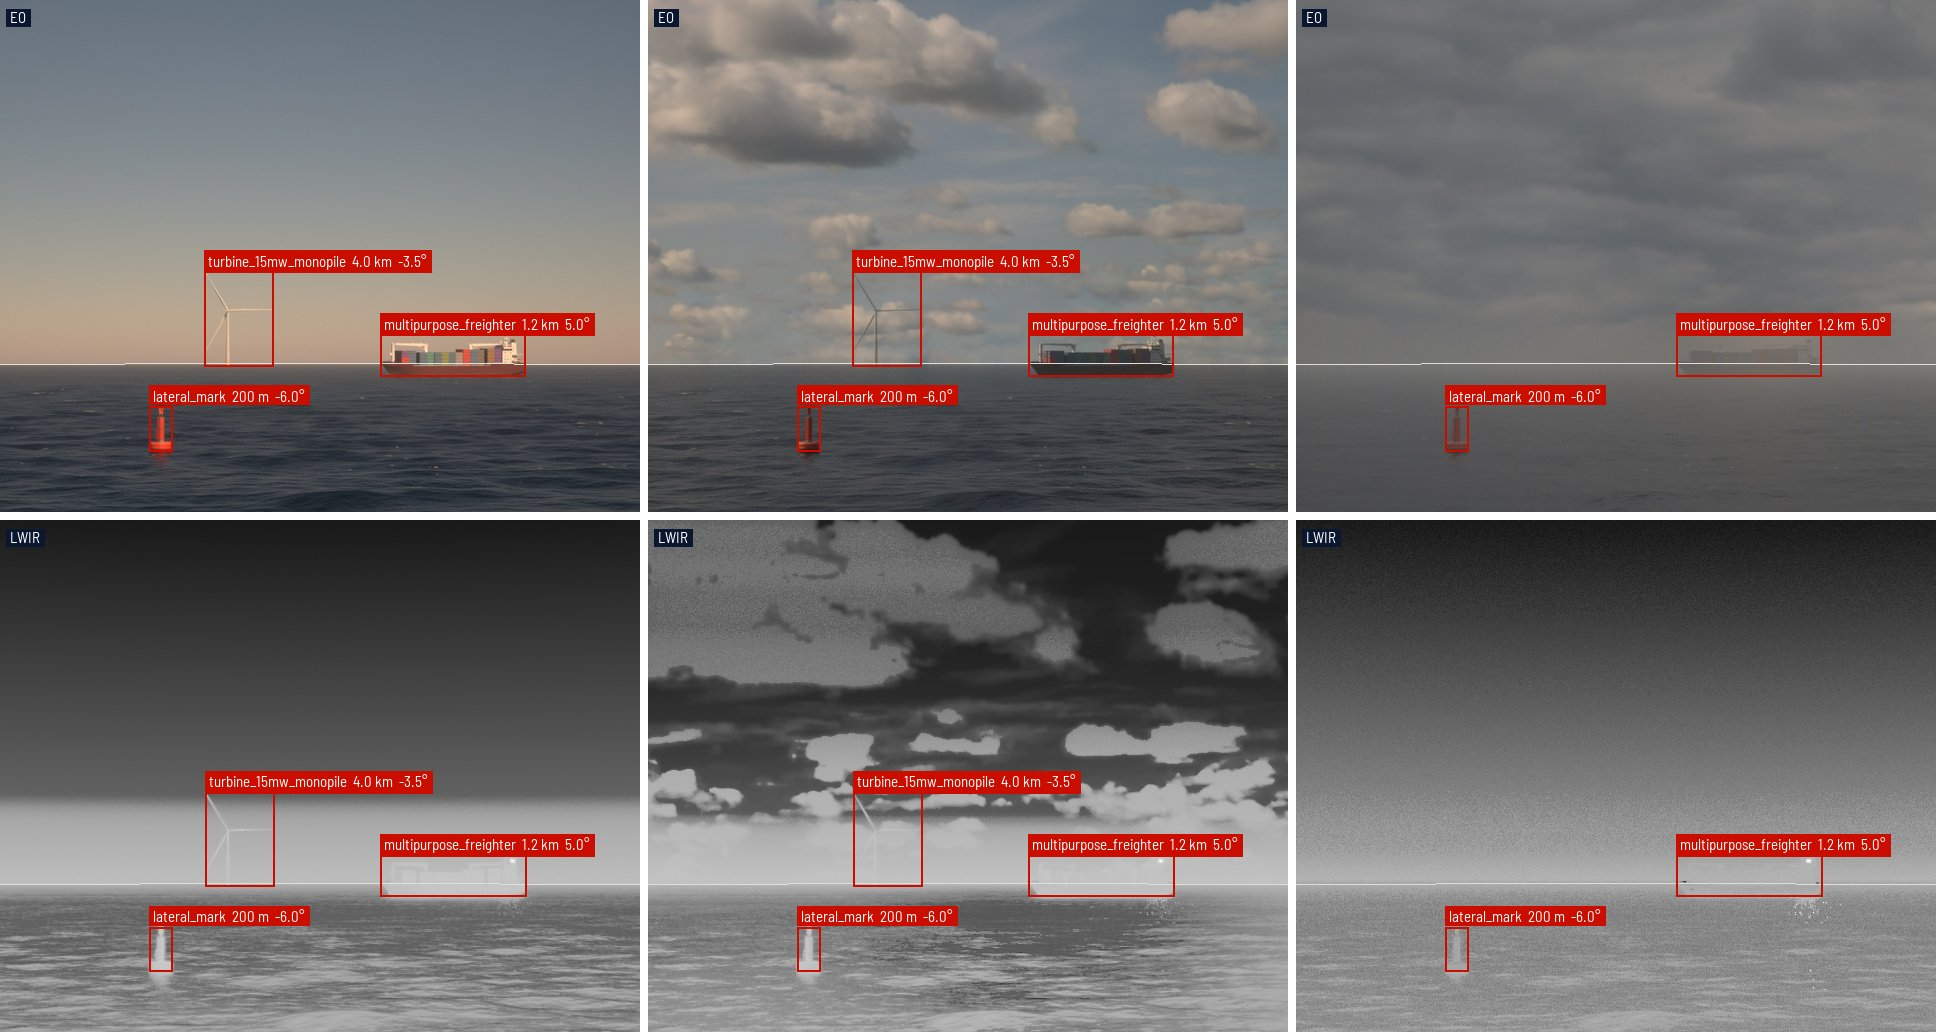
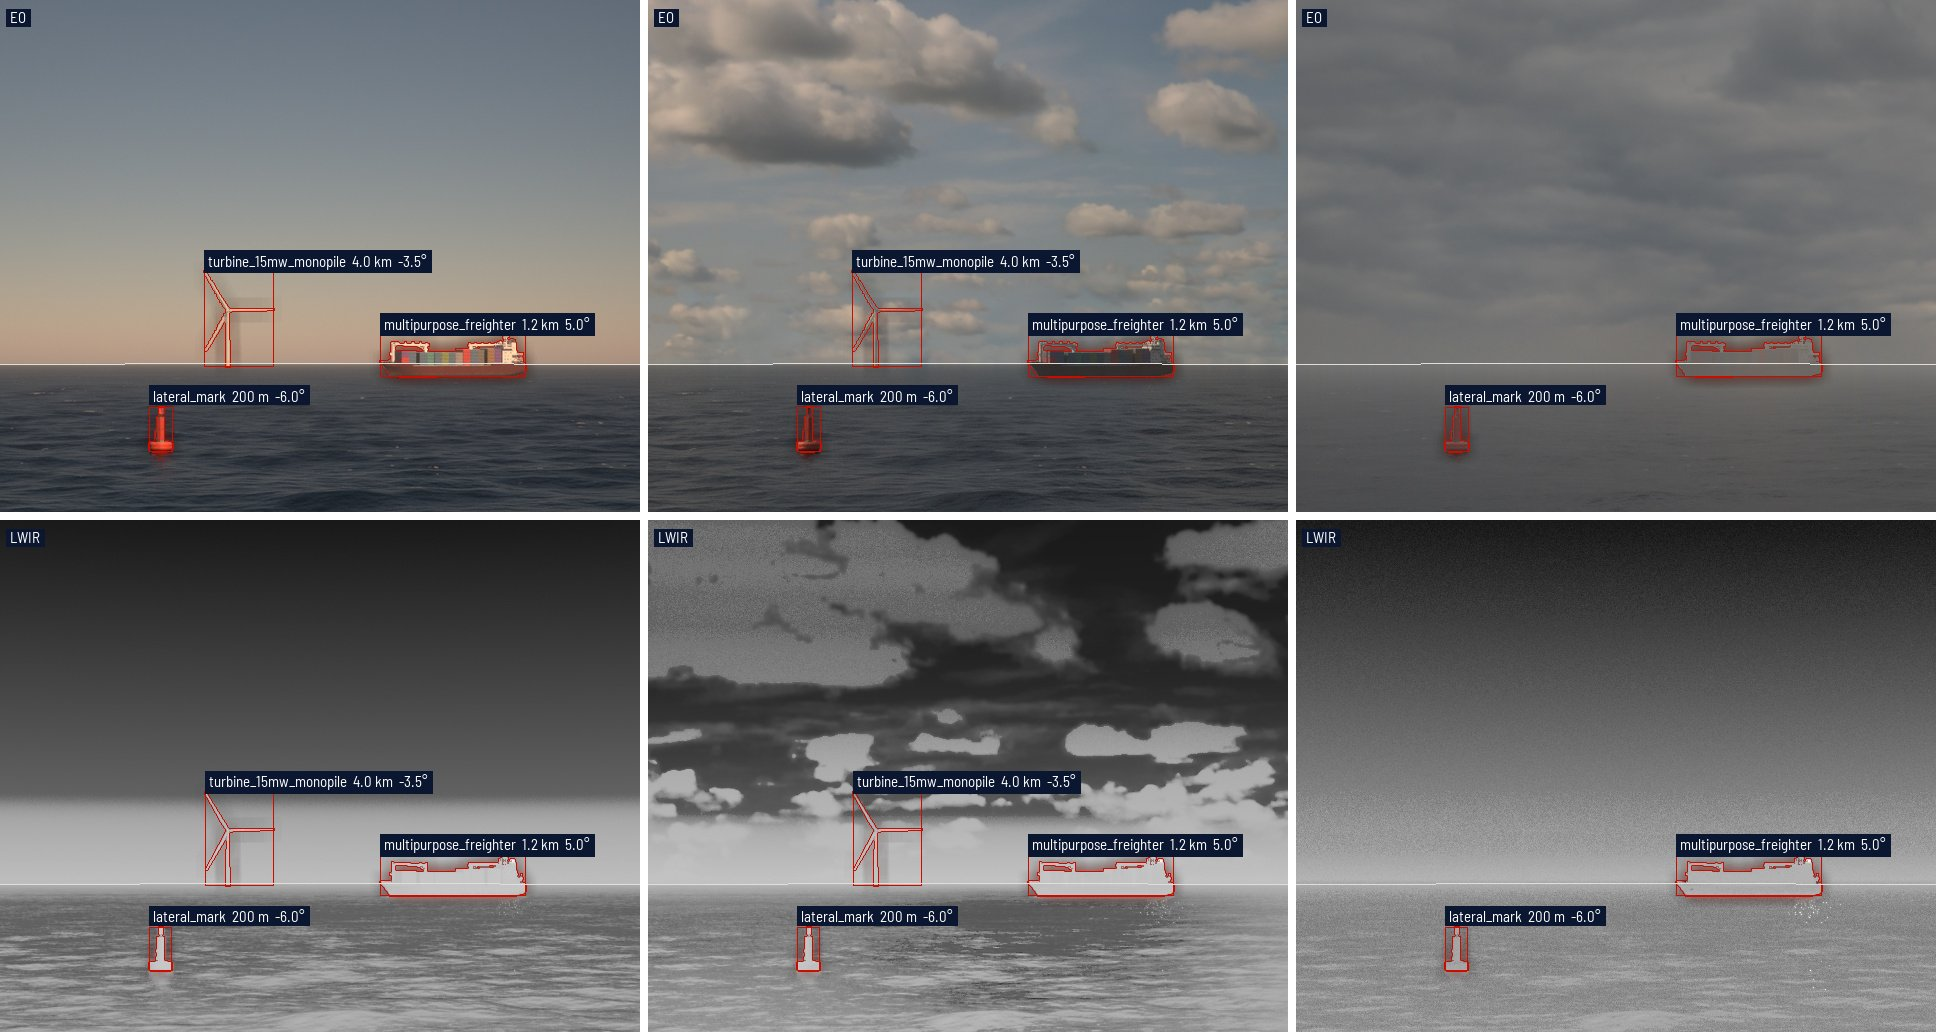
feat: write each target's mask as COCO run-length segmentation (#439)
* feat: write each target's mask as COCO run-length `segmentation`

The mask is the object-index pixels the box comes from, so an occluding
wave leaves it holes or splits it.

* fix: keep supervision out of what the tests import

`docs/hero.py` imported it at the top, so `tests/test_docs.py` and
`tests/test_config.py` failed to collect. The drawing moves to
`docs/outline.py`, in Focus Red.

* chore: trim two comments

* fix: keep a one-pixel target in the hero and draw no mask for an empty frame

---------

diff --git a/docs/masks.py b/docs/masks.py
@@ -1,0 +1,75 @@
+"""docs/outputs.md's figure: labels.json's masks read through supervision.
+
+uv run --with supervision python -m docs.masks docs/masks.jpg
+"""
+
+import sys
+import tempfile
+from pathlib import Path
+
+import numpy as np
+import supervision as sv
+from PIL import Image
+
+from docs.hero import GAP_PX, SCENARIO, captioned, render
+from docs.outline import outlined
+from seascape.outputs import labels
+
+PANEL_PX = (640, 480)
+MARGIN = 1.3
+CAPTIONS = {"eo": "EO", "ir": "LWIR"}
+
+
+def spotlight(image: np.ndarray, found: sv.Detections) -> np.ndarray:
+    return outlined(
+        sv.BackgroundOverlayAnnotator(opacity=0.8).annotate(image, found), found
+    )
+
+
+def around(image: np.ndarray, found: sv.Detections) -> tuple[np.ndarray, sv.Detections]:
+    """`image` and `found` cut to the panel's aspect around every mask."""
+    if not len(found):
+        return image, found
+    x0, y0 = found.xyxy[:, :2].min(axis=0)
+    x1, y1 = found.xyxy[:, 2:].max(axis=0)
+    w = max((x1 - x0) * MARGIN, 2 * PANEL_PX[0] / 16)
+    h = w * PANEL_PX[1] / PANEL_PX[0]
+    shrink = min(1, image.shape[1] / w, image.shape[0] / h)
+    w, h = w * shrink, h * shrink
+    left = int(np.clip((x0 + x1 - w) / 2, 0, image.shape[1] - w))
+    top = int(np.clip((y0 + y1 - h) / 2, 0, image.shape[0] - h))
+    window = np.s_[top : top + int(h), left : left + int(w)]
+    mask = found.mask[(slice(None), *window)]
+    return image[window], sv.Detections(xyxy=sv.mask_to_xyxy(mask), mask=mask)
+
+
+def main(figure: Path) -> None:
+    with tempfile.TemporaryDirectory() as tmp:
+        run = Path(tmp)
+        render(SCENARIO, ["sky.sun_elevation_deg = 35"], run)
+        dataset = sv.DetectionDataset.from_coco(
+            str(run), str(run / "labels.json"), force_masks=True
+        )
+        bands = {
+            i.file_name: i.band
+            for i in labels.Labels.model_validate_json(
+                (run / labels.FILENAME).read_text()
+            ).images
+        }
+        panels = []
+        for path, image, found in dataset:
+            panel = Image.fromarray(spotlight(*around(image, found))[..., ::-1])
+            panel = panel.resize(PANEL_PX, Image.Resampling.LANCZOS)
+            panels.append(captioned(panel, CAPTIONS[bands[Path(path).name]]))
+    sheet = Image.new(
+        "RGB", (sum(p.width for p in panels) + GAP_PX * (len(panels) - 1), PANEL_PX[1])
+    )
+    left = 0
+    for panel in panels:
+        sheet.paste(panel, (left, 0))
+        left += panel.width + GAP_PX
+    sheet.save(figure, quality=85)
+
+
+if __name__ == "__main__":
+    main(Path(sys.argv[1]))

diff --git a/docs/outline.py b/docs/outline.py
@@ -1,0 +1,63 @@
+"""Draws labels.json's masks on a frame."""
+
+import cv2
+import numpy as np
+import supervision as sv
+from PIL import Image
+
+from docs.brand import FOCUS_RED
+
+
+def masks(
+    image: dict,
+    annotations: list[dict],
+    box: tuple[float, float, float, float],
+    size: tuple[int, int],
+) -> np.ndarray:
+    """Each mask, cropped to `box` and resized to `size`; a pixel it touches stays."""
+    resolution = (image["width"], image["height"])
+    return np.stack(
+        [
+            np.asarray(
+                Image.fromarray(
+                    sv.rle_to_mask(a["segmentation"]["counts"], resolution).astype(
+                        np.uint8
+                    )
+                    * 255
+                ).resize(size, Image.Resampling.BOX, box=box)
+            )
+            > 0
+            for a in annotations
+        ]
+    )
+
+
+def outlined(pic: np.ndarray, found: sv.Detections) -> np.ndarray:
+    """`pic` with each target haloed, boxed and outlined."""
+    if not len(found):
+        return pic
+    red = sv.Color.from_hex(FOCUS_RED)
+    # `found` carries no class ids, which the default lookup needs.
+    by_index = sv.ColorLookup.INDEX
+    grown = sv.Detections(
+        xyxy=found.xyxy,
+        mask=np.stack(
+            [cv2.dilate(m.view(np.uint8), np.ones((3, 3))) > 0 for m in found.mask]
+        ),
+    )
+    pic = sv.HaloAnnotator(
+        color=red, opacity=0.6, kernel_size=25, color_lookup=by_index
+    ).annotate(pic, found)
+    pic = sv.PolygonAnnotator(color=red, thickness=1, color_lookup=by_index).annotate(
+        pic, grown
+    )
+    return sv.BoxAnnotator(color=red, thickness=1, color_lookup=by_index).annotate(
+        pic, found
+    )
+
+
+def lit(img: Image.Image, found: np.ndarray) -> Image.Image:
+    """`img` with the targets in `found` drawn on."""
+    detections = sv.Detections(xyxy=sv.mask_to_xyxy(found), mask=found)
+    pic = outlined(np.asarray(img)[..., ::-1].copy(), detections)
+    return Image.fromarray(pic[..., ::-1])

diff --git a/docs/hero.py b/docs/hero.py
@@ -1,6 +1,6 @@
 """The README's hero: EO above LWIR under each sky, with labels.json drawn on.
 
-uv run python -m docs.hero docs/hero.jpg
+uv run --with supervision python -m docs.hero docs/hero.jpg
 """
 
 import json
@@ -11,7 +11,7 @@ from pathlib import Path
 
 from PIL import Image, ImageDraw
 
-from docs.brand import FOCUS_RED, FOG_WHITE, NIGHT_BLUE, font
+from docs.brand import FOG_WHITE, NIGHT_BLUE, font
 
 SCENARIO = Path(__file__).with_name("hero.toml")
 SKIES = {
@@ -57,6 +57,10 @@ def frame(
     img = Image.open(run / image["file_name"]).convert("RGB")
     box = (left, top, left + width, top + height)
     img = img.resize(size, Image.Resampling.LANCZOS, box=box)
+    if annotations:
+        from docs.outline import lit, masks
+
+        img = lit(img, masks(image, annotations, box, size))
     draw = ImageDraw.Draw(img)
 
     def at(x: float, y: float) -> tuple[float, float]:
@@ -64,16 +68,14 @@ def frame(
 
     draw.line([at(x, y) for x, y in image["horizon_px"]], fill=FOG_WHITE)
     for a in annotations:
-        x, y, w, h = a["bbox"]
-        (x0, y0), (x1, y1) = at(x, y), at(x + w, y + h)
-        draw.rectangle([x0, y0, x1, y1], outline=FOCUS_RED, width=2)
+        x0, y0 = at(*a["bbox"][:2])
         r = a["range_m"]
         dist = f"{r / 1000:.1f} km" if r >= 1000 else f"{r:.0f} m"
         text = f"{a['name']}  {dist}  {a['bearing_deg']:.1f}°"
         # Off the right edge a label shifts left, off the top it drops below the edge.
         text_w = draw.textlength(text, font=font(15))
         x = max(4, min(x0 + 4, img.width - text_w - 8))
-        tag(draw, (x, max(4, y0 - 20)), text, FOCUS_RED, 15)
+        tag(draw, (x, max(4, y0 - 20)), text, NIGHT_BLUE, 15)
     return captioned(img, caption)
 
 

diff --git a/seascape/outputs/labels.py b/seascape/outputs/labels.py
@@ -79,11 +79,21 @@ class Category(Model):
     supercategory: str
 
 
+class RunLengths(Model):
+    """COCO's uncompressed run-length encoding of a mask."""
+
+    size: tuple[int, int]  # height, width
+    # Alternating runs, background first, counted down each column.
+    counts: list[int]
+
+
 class Annotation(Model):
     id: int
     image_id: int
     category_id: int
     bbox: tuple[int, int, int, int]  # x, y, width, height
+    # RLE under iscrowd 0, which COCO otherwise gives to polygons.
+    segmentation: RunLengths
     area: int  # pixels the target covers
     iscrowd: int = 0
     name: str
@@ -197,6 +207,7 @@ class Labels(Model):
                     image_id=image.id,
                     category_id=self._category(target),
                     bbox=bbox,
+                    segmentation=run_lengths(index == target.pass_index),
                     area=len(xs),
                     name=target.name,
                     range_m=where["range_m"],
@@ -271,6 +282,14 @@ def merge(root: Path, folders: Sequence[Path]) -> Labels:
     merged.info = {k: v for k, v in merged.info.items() if k != "scenario"}
     merged.info["scenarios"] = scenarios
     return merged
+
+
+def run_lengths(mask: np.ndarray) -> RunLengths:
+    column_major = mask.ravel(order="F")
+    # np.diff of bools is XOR: True at each flip.
+    flips = np.flatnonzero(np.diff(column_major)) + 1
+    runs = np.diff(flips, prepend=0, append=len(column_major)).tolist()
+    return RunLengths(size=mask.shape, counts=[0, *runs] if column_major[0] else runs)
 
 
 def present(index: np.ndarray, targets: Sequence[Target]) -> set[str]:

diff --git a/tests/test_labels.py b/tests/test_labels.py
@@ -97,6 +97,28 @@ def test_a_box_covers_whole_pixels_from_its_top_left_corner() -> None:
     assert not found.truncated
 
 
+@pytest.mark.parametrize("corner", [(10, 20), (0, 0)])
+def test_a_segmentation_decodes_to_the_pixels_it_was_cut_from(
+    corner: tuple[int, int],
+) -> None:
+    """Two parts and a hole, with the mask starting on the first pixel or not."""
+    index = np.zeros((48, 64), dtype=int)
+    y, x = corner
+    index[y : y + 6, x : x + 8] = 1
+    index[y + 2 : y + 4, x + 3 : x + 5] = 0
+    index[y + 20 : y + 22, x + 30 : x + 31] = 1
+
+    (found,) = added(index, [target(1)]).annotations
+
+    height, width = found.segmentation.size
+    decoded = np.repeat(
+        np.arange(len(found.segmentation.counts)) % 2 == 1, found.segmentation.counts
+    )
+    assert (height, width) == (48, 64)
+    assert ((index == 1) == decoded.reshape(width, height).T).all()
+    assert found.area == decoded.sum()
+
+
 def test_a_box_on_the_frame_edge_is_truncated() -> None:
     index = np.zeros((48, 64), dtype=int)
     index[40:, 60:] = 1

diff --git a/docs/outputs.md b/docs/outputs.md
@@ -1,6 +1,6 @@
 # Outputs
 
-`labels.json` is the ground truth, in [COCO's detection format](https://cocodataset.org/#format-data): per frame, a box around each target with its range and bearing from the camera, its true heading, its `dims_m` (length, beam and height above the waterline, as built), the horizon, and what rendered it. A box's category is its asset's type, under its kind's supercategory, with a fixed id, so every `labels.json` agrees. FiftyOne reads the boxes and their fields as they are; the per-frame keys (`horizon_px`, `camera`, `band`, `hfov_deg`, `time_s`) stay in the JSON:
+`labels.json` is the ground truth, in [COCO's detection format](https://cocodataset.org/#format-data): per frame, a box and mask per target, with its range and bearing from the camera, its true heading, its `dims_m` (length, beam and height above the waterline, as built), the horizon, and what rendered it. A target's category is its asset's type, under its kind's supercategory, with a fixed id, so every `labels.json` agrees. FiftyOne reads the boxes and their fields as they are; the per-frame keys (`horizon_px`, `camera`, `band`, `hfov_deg`, `time_s`) stay in the JSON:
 
 ```python
 import fiftyone as fo
@@ -8,7 +8,21 @@ import fiftyone as fo
 fo.Dataset.from_dir("out/", fo.types.COCODetectionDataset, data_path=".")
 ```
 
-A target a viewer cannot tell from its surroundings gets no box, as an occluded one gets none. On each of its rows the background is the line through the medians of the background either side, past the few pixels its own glare reaches. The target's mean ΔE*ab from that line, less the flanks' mean ΔE*ab from it, is its excess, a local target-to-clutter contrast (Schmieder & Weathersby 1983). Under `labels.MIN_EXCESS_DE` the target is dropped. Only an 8-bit frame as written is judged, EO or LWIR: an exr or a 16-bit LWIR png keeps every box.
+A mask is the target's object-index pixels, so an occluding wave leaves it holes or splits it; the box is its extent. It is stored as `segmentation`, COCO's uncompressed run-length encoding with `iscrowd` 0: `size` is `[height, width]` and `counts` alternates background and target runs, background first, counted down each column. supervision decodes it as is:
+
+```python
+import supervision as sv
+
+dataset = sv.DetectionDataset.from_coco("out/", "out/labels.json", force_masks=True)
+```
+
+FiftyOne's COCO importer loads the same masks as `segmentations`, once pycocotools is installed.
+
+![FiftyOne's detections and segmentations for one frame](fiftyone.jpg)
+
+![Masks lit, the rest dimmed](masks.jpg)
+
+A target a viewer cannot tell from its surroundings gets no box or mask, as an occluded one gets none. On each of its rows the background is the line through the medians of the background either side, past the few pixels its own glare reaches. The target's mean ΔE*ab from that line, less the flanks' mean ΔE*ab from it, is its excess, a local target-to-clutter contrast (Schmieder & Weathersby 1983). Under `labels.MIN_EXCESS_DE` the target is dropped. Only an 8-bit frame as written is judged, EO or LWIR: an exr or a 16-bit LWIR png keeps every box and mask.
 
 With `outputs.keep_if_any_sees`, a target that any camera of a band sees at an instant is boxed in every camera of that band that has it in frame.
 

diff --git a/README.md b/README.md
@@ -20,7 +20,7 @@ Real footage can't put a vessel at exactly 7 NM, hold the visibility constant, o
 
 ## Highlights
 
-- **Ground truth by construction.** Camera extrinsics and intrinsics are known rather than estimated. Every frame comes with each target's box, range and bearing, and the horizon. In an 8-bit frame, a target too faint to tell from its surroundings gets no box ([outputs](docs/outputs.md)).
+- **Ground truth by construction.** Camera extrinsics and intrinsics are known rather than estimated. Every frame comes with each target's box, mask, range and bearing, and the horizon. In an 8-bit frame, a target too faint to tell from its surroundings gets no box ([outputs](docs/outputs.md)).
 - **LWIR as well as EO.** Measured seawater optical constants, a skin and foam that radiate differently from the bulk, a band-integrated sky whose clouds reflect in the sea, hulls whose parts each settle at their own heat balance, and a microbolometer model ([primer](docs/primer/README.md)).
 - **Multi-sensor rigs.** Several cameras, each with its own resolution, optics and band, in one scene.
 - **Sequences.** Targets under way, ownship roll, pitch and heave, seamless loops, mp4.

diff --git a/docs/primer/README.md b/docs/primer/README.md
@@ -15,7 +15,7 @@ Training detectors on synthetic data is the obvious use, especially when real da
 - testing distance estimation against exact ranges
 - recreating tricky situations that are hard to stage at sea, like a collision course
 
-Every frame comes with `labels.json` (a COCO box per target, with its range and bearing, plus where the horizon falls) and `calibration.json` (the camera's intrinsics and pose). The boxes come from a render pass that writes each target's ID into its pixels, so every box is tight to the target's visible pixels. [Outputs](../outputs.md) has the details.
+Every frame comes with `labels.json` (a COCO box and mask per target, with its range and bearing, plus where the horizon falls) and `calibration.json` (the camera's intrinsics and pose). The boxes and masks come from a render pass that writes each target's ID into its pixels, so boxes and masks are tight to the target's visible pixels. [Outputs](../outputs.md) has the details.
 
 ## Limitations
 
